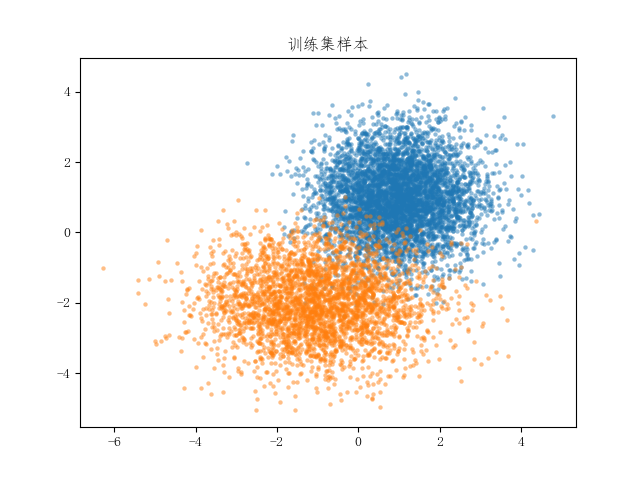
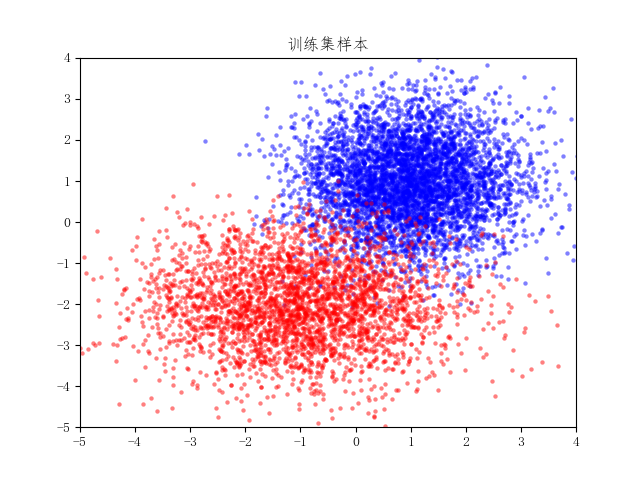
可视化

diff --git a/knn/main.py b/knn/main.py
@@ -1,0 +1,80 @@
+import pickle
+import matplotlib.pyplot as plt
+import numpy as np
+from sklearn.metrics import accuracy_score
+from knn import KNN
+plt.rcParams['font.sans-serif'] = ['FangSong']  # 用来正常显示中文标签
+plt.rcParams['axes.unicode_minus'] = False  # 用来正常显示负号
+
+f_train = open('data/data_train.pkl', 'rb')
+f_test = open('data/data_test.pkl', 'rb')
+
+data_train = pickle.load(f_train)
+data_test = pickle.load(f_test)
+
+if __name__ == '__main__':
+    data_train_np_X = np.array(data_train['X'])
+    data_train_np_y = np.array(data_train['y'])
+    data_train_np_X_0 = data_train_np_X[np.where(data_train_np_y == 0)]
+    # data_train_np_y_0 = data_train_np_y[np.where(data_train_np_y == 0)]
+    data_train_np_X_1 = data_train_np_X[np.where(data_train_np_y == 1)]
+    # data_train_np_y_1 = data_train_np_y[np.where(data_train_np_y == 1)]
+
+    data_test_np_X = np.array(data_test['X'])
+    data_test_np_y = np.array(data_test['y'])
+    data_test_np_X_0 = data_test_np_X[np.where(data_test_np_y == 0)]
+    # data_test_np_y_0 = data_test_np_y[np.where(data_test_np_y == 0)]
+    data_test_np_X_1 = data_test_np_X[np.where(data_test_np_y == 1)]
+    # data_test_np_y_1 = data_test_np_y[np.where(data_test_np_y == 1)]
+
+    # 先验概率
+    prior_0 = (data_train_np_y == 0).sum() / len(data_train_np_X)
+    prior_1 = (data_train_np_y == 1).sum() / len(data_train_np_X)
+
+    knn_0 = KNN(K=150)
+    knn_1 = KNN(K=150)
+    knn_0.fit(data_train_np_X_0)
+    knn_1.fit(data_train_np_X_1)
+
+    condition_0 = knn_0.predict(data_test_np_X)
+    condition_1 = knn_1.predict(data_test_np_X)
+
+    predict = np.zeros_like(data_test_np_y)
+    predict[prior_0 * condition_0 < prior_1 * condition_1] = 1
+    acc = accuracy_score(data_test['y'], predict)
+    print(f'Acc: {acc:.2%}')
+
+    X, Y = np.mgrid[-5:4:0.05, -5:4:0.05]
+    # KNN的3D概率密度图
+    fig = plt.figure()
+    ax3 = plt.axes(projection='3d')
+    Z_0 = knn_0.predict(np.dstack([X, Y]))
+    Z_1 = knn_1.predict(np.dstack([X, Y]))
+    ax3.plot_surface(X, Y, Z_0, cmap='rainbow')
+    ax3.plot_surface(X, Y, Z_1, cmap='rainbow')
+    plt.xlim(-5, 4)
+    plt.ylim(-5, 4)
+    plt.title('KNN 3D概率密度图')
+    plt.savefig('pictures/knn_3D.png')
+    plt.show()
+    # KNN的等高线概率密度图
+    plt.contour(X, Y, Z_0)
+    plt.contour(X, Y, Z_1)
+    plt.xlim(-5, 4)
+    plt.ylim(-5, 4)
+    plt.title('KNN 等高线概率密度图')
+    plt.savefig('pictures/knn_contour.png')
+    plt.show()
+    # 测试集样本+决策面 的图
+    condition_0 = knn_0.predict(np.dstack([X, Y]))
+    condition_1 = knn_1.predict(np.dstack([X, Y]))
+    pred = np.zeros_like(X)
+    pred[prior_0 * condition_0 < prior_1 * condition_1] = 1
+    plt.pcolormesh(X, Y, pred, cmap='bwr', alpha=0.5)
+    plt.scatter(data_test_np_X_0[:, 0], data_test_np_X_0[:, 1], linewidths=0, s=10, alpha=1, c='b')
+    plt.scatter(data_test_np_X_1[:, 0], data_test_np_X_1[:, 1], linewidths=0, s=10, alpha=1, c='r')
+    plt.xlim(-5, 4)
+    plt.ylim(-5, 4)
+    plt.title(f'贝叶斯决策面 Acc:{acc:.2%}')
+    plt.savefig('pictures/decision_surface.png')
+    plt.show()

diff --git a/knn/generate_data.py b/knn/generate_data.py
@@ -38,7 +38,7 @@ if __name__ == '__main__':
     # pickle.dump(data_test, open('data/data_test.pkl', 'wb'))
 
     # 真实分布的可视化
-    XX, YY = np.mgrid[-4:4:0.1, -4:4:0.1]
+    XX, YY = np.mgrid[-5:4:0.05, -5:4:0.05]
     Z0 = multivariate_normal.pdf(np.dstack([XX, YY]), mean=data0_mean, cov=data0_cov)
     Z1 = multivariate_normal.pdf(np.dstack([XX, YY]), mean=data1_mean, cov=data1_cov)
     # 真实分布的3D概率密度图
@@ -46,28 +46,38 @@ if __name__ == '__main__':
     ax3 = plt.axes(projection='3d')
     ax3.plot_surface(XX, YY, Z0, cmap='rainbow')
     ax3.plot_surface(XX, YY, Z1, cmap='rainbow')
-    # plt.savefig('pictures/true_3D.png')
+    plt.xlim(-5, 4)
+    plt.ylim(-5, 4)
+    plt.title('真实分布 3D概率密度图')
+    plt.savefig('pictures/true_3D.png')
     plt.show()
     # 真实分布的等高线概率密度图
     plt.contour(XX, YY, Z0)
     plt.contour(XX, YY, Z1)
-    # plt.savefig('pictures/true_contour.png')
+    plt.xlim(-5, 4)
+    plt.ylim(-5, 4)
+    plt.title('真实分布 等高线概率密度图')
+    plt.savefig('pictures/true_contour.png')
     plt.show()
 
     # 训练集样本可视化
     X0_train = X_train[y_train == 0]
     X1_train = X_train[y_train == 1]
-    plt.scatter(X0_train[:, 0], X0_train[:, 1], linewidths=0, s=10, alpha=0.5)
-    plt.scatter(X1_train[:, 0], X1_train[:, 1], linewidths=0, s=10, alpha=0.5)
+    plt.scatter(X0_train[:, 0], X0_train[:, 1], linewidths=0, s=10, alpha=0.5, c='b')
+    plt.scatter(X1_train[:, 0], X1_train[:, 1], linewidths=0, s=10, alpha=0.5, c='r')
+    plt.xlim(-5, 4)
+    plt.ylim(-5, 4)
     plt.title('训练集样本')
-    # plt.savefig('pictures/scatter_train.png')
+    plt.savefig('pictures/scatter_train.png')
     plt.show()
 
     # 测试集样本可视化
     X0_test = X_test[y_test == 0]
     X1_test = X_test[y_test == 1]
-    plt.scatter(X0_test[:, 0], X0_test[:, 1], linewidths=0, s=10, alpha=0.5)
-    plt.scatter(X1_test[:, 0], X1_test[:, 1], linewidths=0, s=10, alpha=0.5)
+    plt.scatter(X0_test[:, 0], X0_test[:, 1], linewidths=0, s=10, alpha=0.5, c='b')
+    plt.scatter(X1_test[:, 0], X1_test[:, 1], linewidths=0, s=10, alpha=0.5, c='r')
+    plt.xlim(-5, 4)
+    plt.ylim(-5, 4)
     plt.title('测试集样本')
-    # plt.savefig('pictures/scatter_test.png')
+    plt.savefig('pictures/scatter_test.png')
     plt.show()
